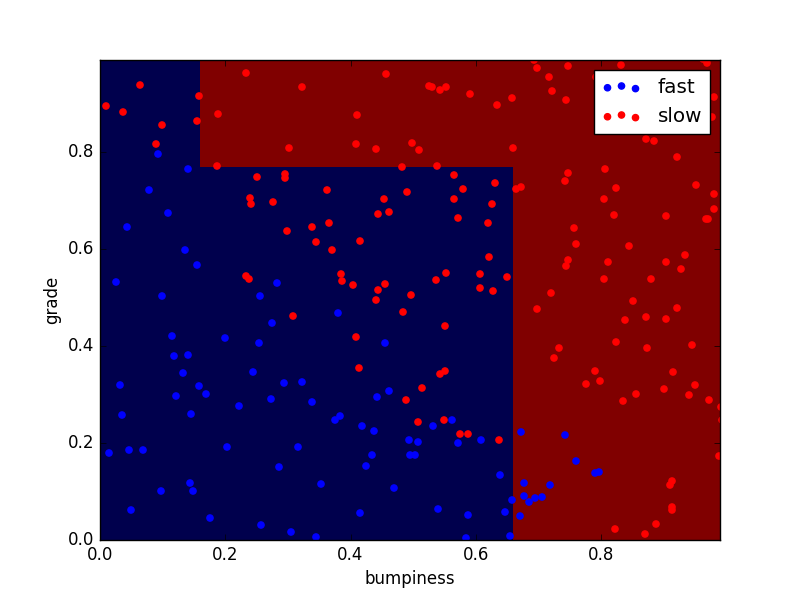
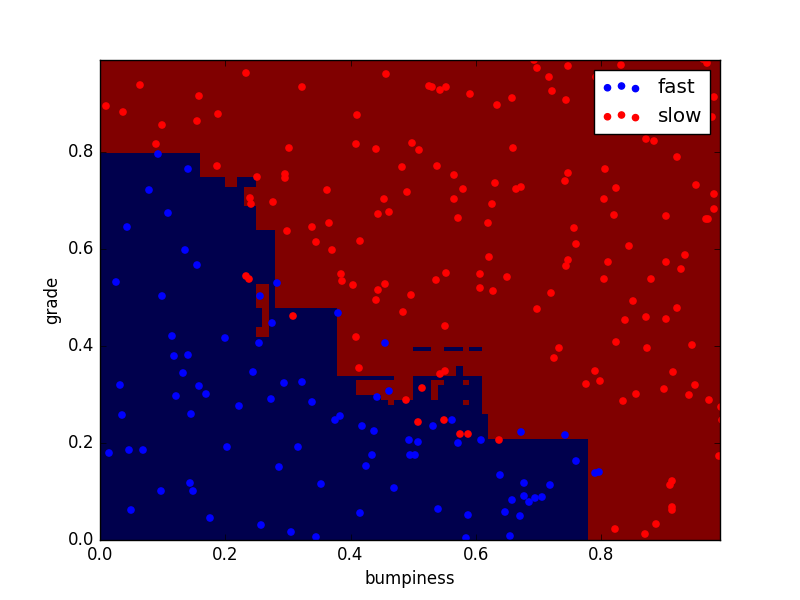
Added attempt at best accuracy

Changed region(s): [[0.25, 0.27, 0.75, 0.9], [0.125, 0.09, 0.25, 0.27]]

diff --git a/lesson-4/ex2.py b/lesson-4/ex2.py
@@ -1,0 +1,37 @@
+# Beat 93.6% accuracy
+
+
+#### Boilerplate #################################################################
+
+import matplotlib.pyplot as plt
+from prep_terrain_data import makeTerrainData
+from class_vis import prettyPicture
+
+features_train, labels_train, features_test, labels_test = makeTerrainData()
+
+
+### the training data (features_train, labels_train) have both "fast" and "slow"
+### points mixed together--separate them so we can give them different colors
+### in the scatterplot and identify them visually
+grade_fast = [features_train[ii][0] for ii in range(0, len(features_train)) if labels_train[ii]==0]
+bumpy_fast = [features_train[ii][1] for ii in range(0, len(features_train)) if labels_train[ii]==0]
+grade_slow = [features_train[ii][0] for ii in range(0, len(features_train)) if labels_train[ii]==1]
+bumpy_slow = [features_train[ii][1] for ii in range(0, len(features_train)) if labels_train[ii]==1]
+
+#### Exercise code #############################################################
+
+from sklearn.ensemble import AdaBoostClassifier
+from sklearn.tree import DecisionTreeClassifier
+
+clf = AdaBoostClassifier(
+    DecisionTreeClassifier(max_depth=2),
+    n_estimators=100,
+    learning_rate=1)
+clf.fit(features_train, labels_train)
+print clf.score(features_test, labels_test)
+
+
+try:
+    prettyPicture(clf, features_test, labels_test)
+except NameError:
+    pass

diff --git a/lesson-5/ex3.py b/lesson-5/ex3.py
@@ -1,0 +1,7 @@
+# Feature creep
+
+import pickle
+
+enron_data = pickle.load(open("../ud120-projects/final_project/final_project_dataset.pkl", "r"))
+
+print sum(1 for x in enron_data.values() if x['poi'] == True)

diff --git a/lesson-5/ex2.py b/lesson-5/ex2.py
@@ -1,0 +1,7 @@
+# Feature creep
+
+import pickle
+
+enron_data = pickle.load(open("../ud120-projects/final_project/final_project_dataset.pkl", "r"))
+
+print len(enron_data['GRAMM WENDY L'])

diff --git a/lesson-5/ex1.py b/lesson-5/ex1.py
@@ -1,0 +1,7 @@
+# Size of the enron dataset
+
+import pickle
+
+enron_data = pickle.load(open("../ud120-projects/final_project/final_project_dataset.pkl", "r"))
+
+print len(enron_data)
